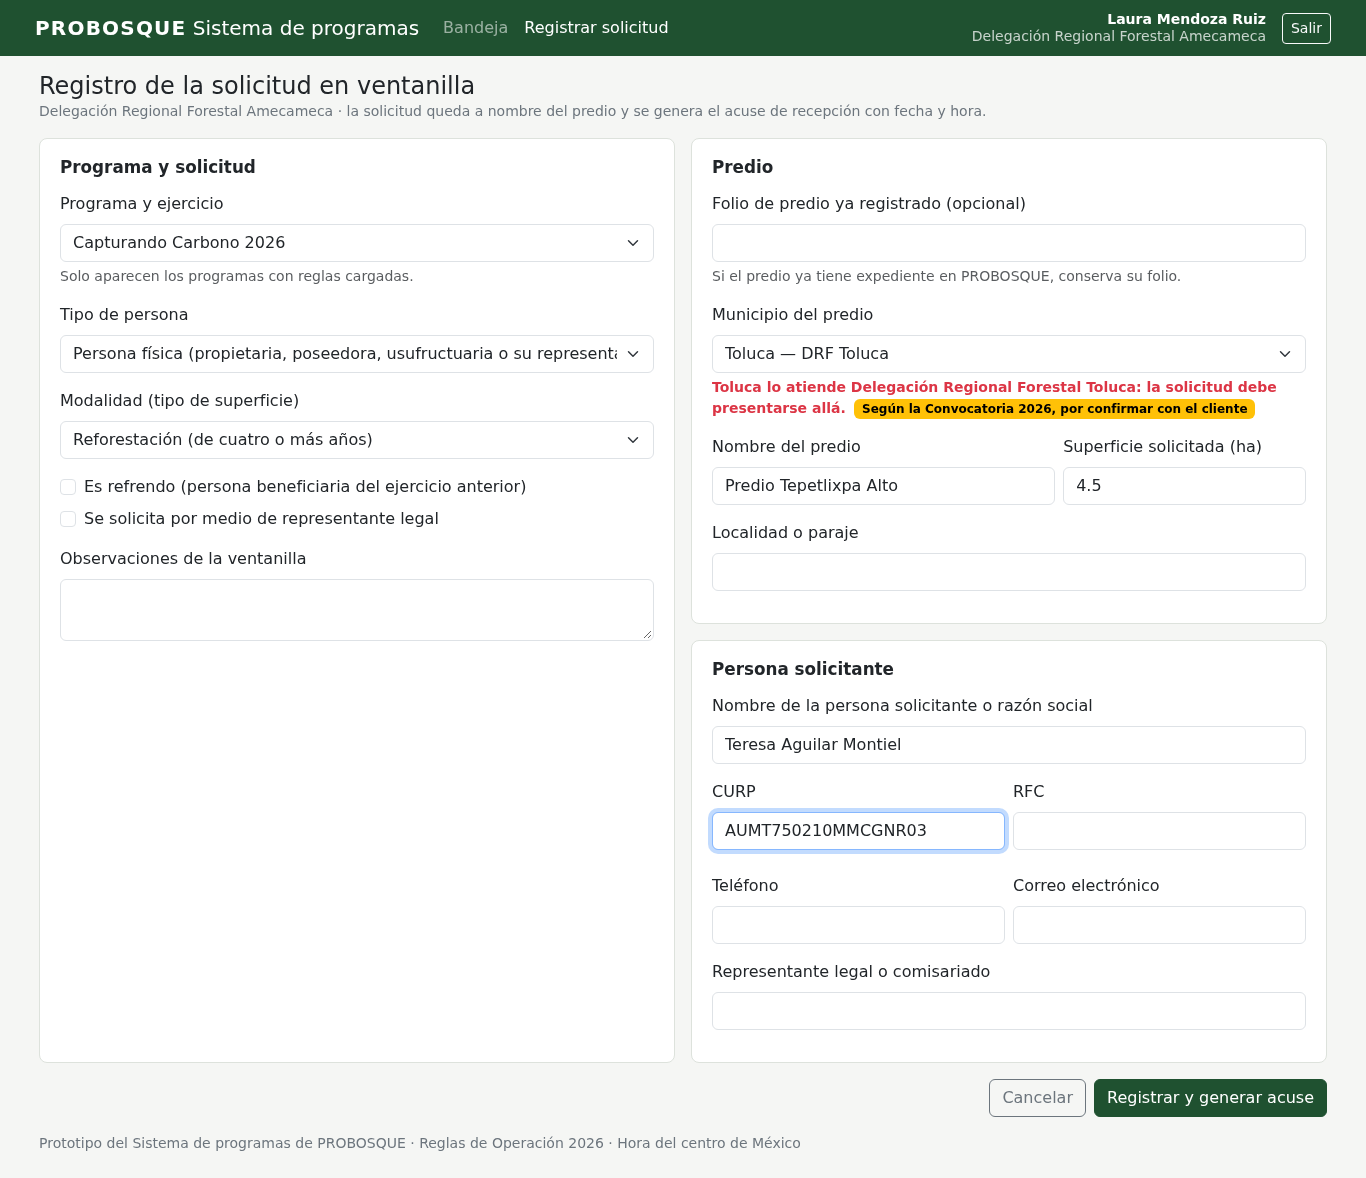
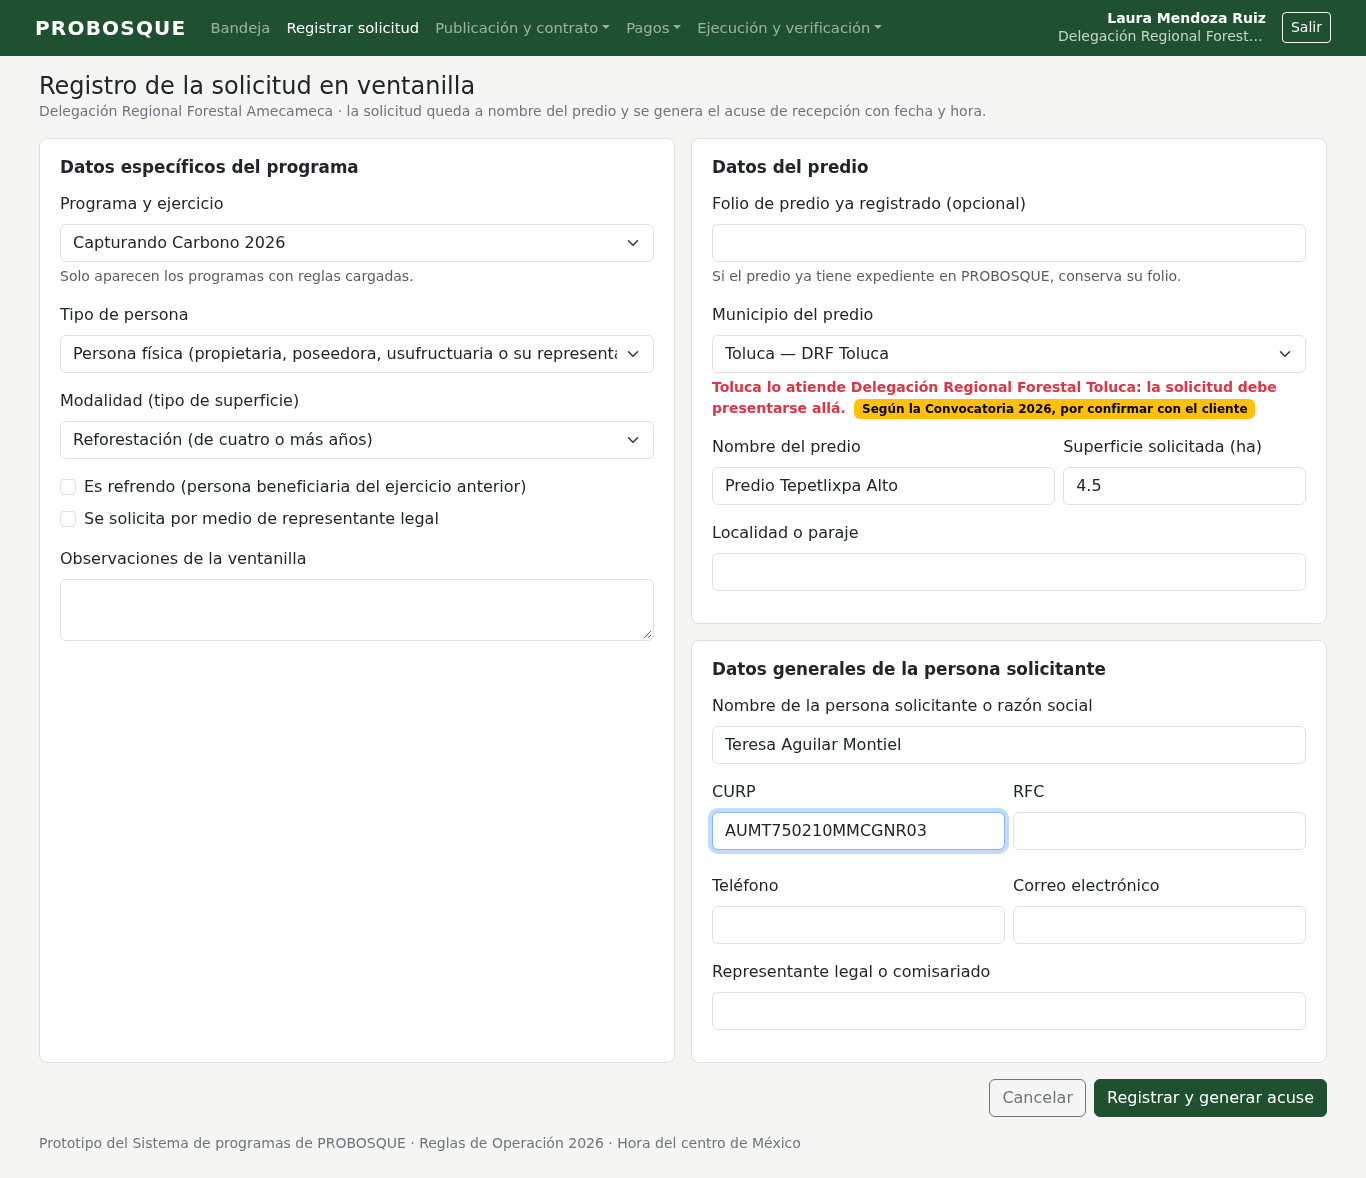
HU-1.1: historia enfocada en la acción y criterio de folio único
Las 26 historias pasan al formato «Como [rol], quiero [acción], para [beneficio]» por indicación del profesor. HU-1.1 registra la solicitud con datos generales, del predio y específicos del programa, con un solo criterio: se genera un folio único. Prueba nueva del folio único, secciones del formulario con los mismos nombres, capturas, manual y bitácora.

diff --git a/sistema/recepcion/templates/recepcion/registrar.html b/sistema/recepcion/templates/recepcion/registrar.html
@@ -13,7 +13,7 @@
   <div class="row g-3">
     <div class="col-12 col-lg-6">
       <div class="tarjeta h-100">
-        <div class="titulo-seccion">Programa y solicitud</div>
+        <div class="titulo-seccion">Datos específicos del programa</div>
         {% include "recepcion/_campo.html" with campo=form.ejercicio %}
         {% include "recepcion/_campo.html" with campo=form.tipo_persona %}
         {% if form.modalidad.field.queryset.exists %}{% include "recepcion/_campo.html" with campo=form.modalidad %}{% endif %}
@@ -24,7 +24,7 @@
     </div>
     <div class="col-12 col-lg-6">
       <div class="tarjeta">
-        <div class="titulo-seccion">Predio</div>
+        <div class="titulo-seccion">Datos del predio</div>
         {% include "recepcion/_campo.html" with campo=form.folio_predio %}
         <div class="mb-3">
           <label class="form-label" for="{{ form.municipio.id_for_label }}">{{ form.municipio.label }}</label>
@@ -45,7 +45,7 @@
         {% include "recepcion/_campo.html" with campo=form.localidad %}
       </div>
       <div class="tarjeta">
-        <div class="titulo-seccion">Persona solicitante</div>
+        <div class="titulo-seccion">Datos generales de la persona solicitante</div>
         {% include "recepcion/_campo.html" with campo=form.solicitante_nombre %}
         <div class="row g-2">
           <div class="col-sm-6">{% include "recepcion/_campo.html" with campo=form.curp %}</div>

diff --git a/sistema/pruebas/test_hu_1_1.py b/sistema/pruebas/test_hu_1_1.py
@@ -12,14 +12,32 @@ pytestmark = pytest.mark.django_db
 
 def test_hu_1_1_criterios_y_necesidades_vienen_del_modelo(modelo, necesidades):
     hu = historia(modelo, "HU-1.1")
-    assert len(hu["criterios"]) == 2
+    assert hu["criterios"] == ["Se genera un folio único para la solicitud."]
     assert "CC-DRF-01" in modelo["necesidad_a_funciones"] and "M1.1" in modelo["necesidad_a_funciones"]["CC-DRF-01"]
     assert "municipio que atiende la Delegación" in necesidades["CC-DRF-01"]["texto"]
 
 
+def test_hu_1_1_genera_folio_unico(nueva_solicitud):
+    """Criterio: se genera un folio único para la solicitud (programa, ejercicio, Delegación y consecutivo)."""
+    from django.db import IntegrityError, transaction
+
+    exps = [nueva_solicitud(nombre=f"Predio {i}") for i in range(3)]
+    exps.append(nueva_solicitud(usuario="del_toluca", municipio="Toluca", nombre="Predio de Toluca"))
+    folios = [e.folio for e in exps]
+    assert len(set(folios)) == len(folios)
+    assert all(f.startswith("CC-2026-AME-") for f in folios[:3]) and folios[3].startswith("CC-2026-TOL-")
+    # El consecutivo es del programa y ejercicio: no se repite aunque cambie la Delegación.
+    numeros = [int(f.rsplit("-", 1)[1]) for f in folios]
+    assert numeros == sorted(numeros) and len(set(numeros)) == len(numeros)
+    # La base de datos tampoco admite dos expedientes con el mismo folio.
+    exps[1].folio = exps[0].folio
+    with pytest.raises(IntegrityError), transaction.atomic():
+        exps[1].save(update_fields=["folio"])
+
+
 @pytest.mark.pdf_real
 def test_hu_1_1_existe_solicitud_asociada_al_predio_con_acuse(nueva_solicitud, usuarios):
-    """Criterio 1: existe una solicitud asociada al predio y se genera su acuse con fecha y hora de recepción."""
+    """Regla del registro: la solicitud queda asociada al predio y se emite su acuse con fecha y hora de recepción."""
     exp = nueva_solicitud(nombre="Predio El Pino")
     assert exp.predio.nombre == "Predio El Pino" and exp.predio.folio.startswith("PRED-")
     assert exp.estado.clave == "recibida"
@@ -42,7 +60,7 @@ def test_hu_1_1_acuse_pdf_lleva_folio_fecha_y_hora(nueva_solicitud):
 
 
 def test_hu_1_1_predio_en_municipio_que_atiende_la_delegacion(nueva_solicitud):
-    """Criterio 2: el predio está en un municipio que atiende la Delegación."""
+    """Regla del registro (ROP CC 8.1.3): el predio está en un municipio que atiende la Delegación."""
     exp = nueva_solicitud(municipio="Tlalmanalco")
     assert exp.predio.municipio.delegacion == exp.delegacion
 

diff --git a/entregas/BITACORA.md b/entregas/BITACORA.md
@@ -217,3 +217,4 @@ numeral y la línea del texto de las ROP.
 | D-24 | Guía de inicio en la raíz (`GUIA_DE_INICIO.md`): instalar Docker en WSL, bajar la rama, levantar el sistema, usuarios de demostración y páginas públicas, detener y borrar, configuración, problemas comunes, pruebas, y cómo abrir la página de la Calculadora (archivo único o sitio con un servidor local). Enlazada desde los dos README. Se probó siguiéndola en una copia limpia de la rama dentro de WSL: el sistema levantó con la demostración, respondieron la entrada, los resultados, el padrón y el portal, y se entró con un usuario de la Delegación; el servidor local de la Calculadora sirvió la página y sus datos. | Joshua pidió, antes de unir a `main`, una guía para iniciar la página; los resúmenes de los sprints solo remitían a `sistema/README.md`, cuya sección «Cómo levantar» supone Docker instalado. | Hecho |
 | D-25 | Integración y rama del sprint 1 (18-nov-2026, a pedido de Joshua): `prototipos` se unió a `main` por avance rápido (sin conflictos; `main` no tenía nada propio) y las dos se subieron a GitHub en `da3c6b7`. Se creó la rama `sprint-1` desde `faef4b1`, el último commit del sprint 1 (14-nov, 21:10; el siguiente ya es trabajo del sprint 2), con tres agregados: el resumen del sprint 1 en PDF (generado después, en `96365b6`), una guía de inicio de esa versión y un manual de usuario de lo que hace hasta ahí (recepción, validación, dictámenes, sesiones del Comité y la Calculadora por año), con capturas del propio sistema; los nombres de botones y campos se tomaron del sistema levantado en esa versión y de sus plantillas. Se probó levantando la rama desde cero: entraron la Delegación, la Dirección y la Secretaría Técnica, y la Calculadora se sirvió con el comando de la guía. | Contar con una versión del sprint 1 aislada y documentada para revisarla o mostrarla por separado. | Hecho; `sprint-1` en GitHub (`e458633`) |
 | D-26 | Manual de usuario y material del sprint 1 (18-nov-2026, a pedido de Joshua). En `main`: `MANUAL_DE_USUARIO.md` del sistema completo (15 secciones, 44 capturas; textos de botones y campos tomados de las plantillas y formularios; `64dffa0`), enlazado desde el README y la guía de inicio. En la rama `sprint-1` (`d826108`), que además queda en la carpeta `FEPI-sprint-1` junto al repositorio: (1) datos de prueba: el sprint 1 traía la demostración (doce solicitudes en cada paso, dos sesiones del Comité, una persona en el Listado de Incumplidas) y los datos de las pruebas automáticas, pero ningún archivo para que una persona probara a mano la carga de polígonos y documentos; se crearon polígonos (válido en tres formatos, corrección, cambio de lugar, fuera del municipio, inválido, traslape con la demostración y fuera de rango), ocho documentos PDF y seis fichas de solicitudes, con su generador, y se comprobaron contra el sistema del sprint 1 por los mismos servicios que usan las pantallas; (2) `SECUENCIA_DE_PRUEBA` con doce escenarios (qué hacer, quién y qué debe pasar); (3) `PLANEACION_SPRINT_1` y `TAREAS_POR_PERSONA_SPRINT_1`: el trabajo del sprint 1 en 15 paquetes (54 puntos) repartido entre Joshua (13), Omar (14), Cin (13) y Angel (14), con cómo se diseñó y se ejecutó cada tarea; Markdown y PDF, con un convertidor nuevo (`entregas/md_a_pdf.py`). | Joshua pidió el reparto del sprint 1 entre las cuatro personas del equipo y saber si había datos para simular las funciones; los otros sprints se harán después. | Hecho |
+| D-27 | Redacción de las historias enfocada en la acción (18-nov-2026, nota del profesor a la HU-1.1). Las 26 historias pasan de «Como [rol], quiero [lo que desea], por lo que [lo que hace], para [la meta]» a «Como [rol], quiero [acción], para [beneficio]» (`sistema/especificacion/modelo.json`, en `main` y en `sprint-1`); títulos, roles, puntos, sprints y los demás criterios no cambian. HU-1.1: «Como personal de la Delegación, quiero registrar la solicitud con los datos generales de la persona solicitante, los datos del predio y los datos específicos del programa, para iniciar su trámite», con un solo criterio: «Se genera un folio único para la solicitud» (antes: acuse con fecha y hora, y municipio de la Delegación, que siguen como reglas del registro con sus pruebas). Se agregó `test_hu_1_1_genera_folio_unico` (folios distintos con consecutivo creciente entre Delegaciones y rechazo de un folio repetido por la base de datos); el formulario de registro nombra sus secciones como la historia y se regeneraron sus capturas `hu_1_1_*`; manual y documentos del sprint 1 al día. La propuesta (carpeta de contexto, fuera de git) se actualizó con su script y conserva los originales. Verificado: `main` 566 + 40 y `sprint-1` 129 pruebas en verde; cada criterio de las 26 historias conserva sus pruebas. En una de cinco corridas, el recorrido de navegador de HU-1.1 falló una vez en `sprint-1` sin repetirse. | El profesor pidió que las historias se enfoquen en su acción y que la HU-1.1 tenga como único criterio el folio único. | Hecho |

diff --git a/MANUAL_DE_USUARIO.md b/MANUAL_DE_USUARIO.md
@@ -197,16 +197,19 @@ Los botones de cada pestaña aparecen solo cuando a tu unidad le toca ese paso.
 
 Usuario de ejemplo: `del_amecameca`. En la bandeja, pulsa **Registrar solicitud** y llena:
 
-- **Programa y solicitud**: programa y ejercicio, tipo de persona, modalidad, si es refrendo, si se solicita por medio
-  de representante legal y observaciones de la ventanilla.
-- **Predio**: folio de predio ya registrado (si ya tuvo expediente en PROBOSQUE), municipio, nombre del predio,
-  superficie solicitada en hectáreas y localidad o paraje.
-- **Persona solicitante**: nombre o razón social, CURP, RFC, teléfono, correo y representante legal o comisariado.
+- **Datos específicos del programa**: programa y ejercicio, tipo de persona, modalidad, si es refrendo, si se
+  solicita por medio de representante legal y observaciones de la ventanilla.
+- **Datos del predio**: folio de predio ya registrado (si ya tuvo expediente en PROBOSQUE), municipio, nombre del
+  predio, superficie solicitada en hectáreas y localidad o paraje.
+- **Datos generales de la persona solicitante**: nombre o razón social, CURP, RFC, teléfono, correo y representante
+  legal o comisariado.
 - **Persona beneficiaria** (solo en PEG): nombre, CURP y teléfono del Guardabosque. Sin ellos no se recibe la
   solicitud del núcleo agrario.
 
-Pulsa **Registrar y generar acuse**. El expediente queda en «Solicitud recibida» y se genera el **acuse de
-recepción** en PDF, con el folio, la fecha, la hora y el plazo para completar la documentación (5 días hábiles en CC).
+Pulsa **Registrar y generar acuse**. Se genera el **folio único** de la solicitud (por ejemplo `CC-2026-AME-0001`:
+programa, ejercicio, Delegación y un consecutivo que no se repite en el programa y ejercicio). El expediente queda en
+«Solicitud recibida» y se emite el **acuse de recepción** en PDF, con el folio, la fecha, la hora y el plazo para
+completar la documentación (5 días hábiles en CC).
 
 ![Solicitud registrada con su acuse](entregas/sprint_1/capturas/hu_1_1_05_solicitud_registrada_con_acuse.png)
 
